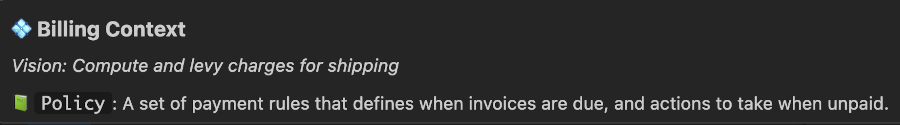
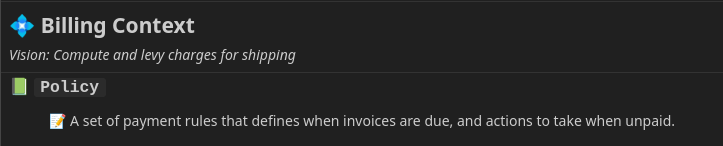
docs: update images on glossary and terminology pages to reflect new rendering layout

diff --git a/src/vscode/contextive/test/single-root/fixtures/simple_workspace/BillingDemo/Policy.cs b/src/vscode/contextive/test/single-root/fixtures/simple_workspace/BillingDemo/Policy.cs
@@ -1,6 +1,6 @@
 public class Policy
 {
-    
+    public string Rule {get; set;}
 }
 
 

diff --git a/src/vscode/contextive/test/single-root/fixtures/simple_workspace/ShippingDemo/Shipping.cs b/src/vscode/contextive/test/single-root/fixtures/simple_workspace/ShippingDemo/Shipping.cs
@@ -1,0 +1,3 @@
+public class Order {
+
+}
